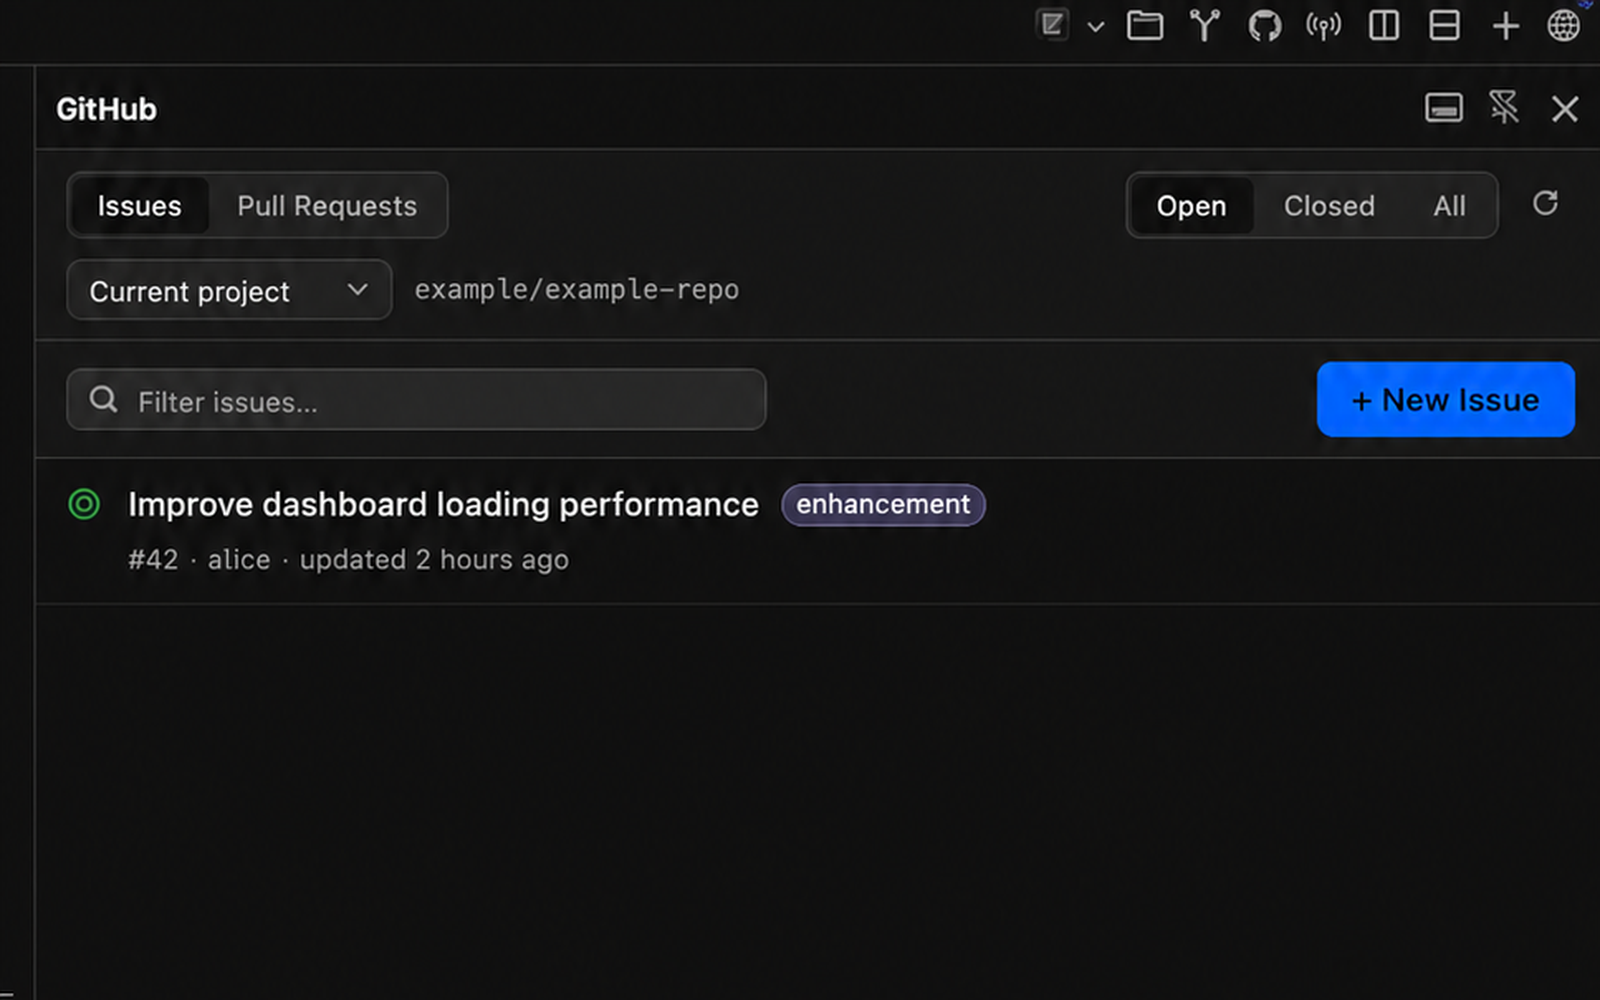
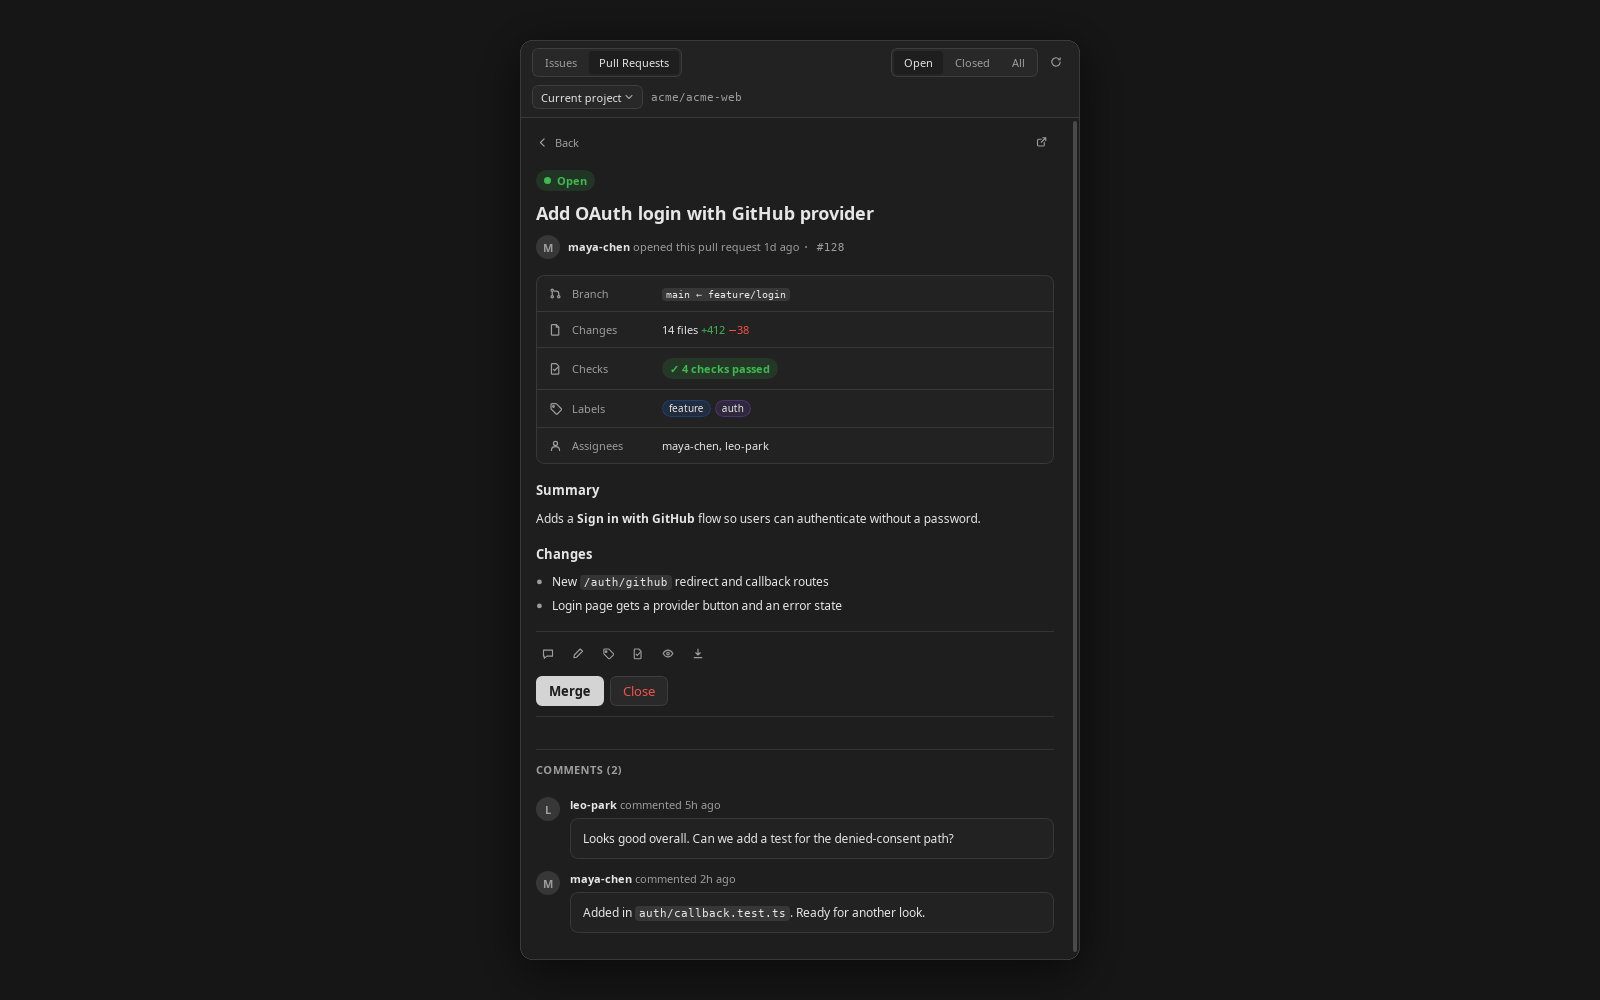
github 0.1.3 (#13)
* harness: github listing case

* harness: drive github case from fixture

* harness: shorter PR body so comments show

* github: credits, version bump, harness tweaks

* github: replace listing screenshots with neutral renders

---------

diff --git a/tools/harness/fixtures/github.js b/tools/harness/fixtures/github.js
@@ -1,0 +1,58 @@
+// Sample GitHub data for the github extension: gh CLI output served through atur.exec.
+(() => {
+  const h = window.__harness;
+  const ago = (hours) => new Date(Date.now() - hours * 3600 * 1000).toISOString();
+  const REPO = "acme/acme-web";
+
+  const prs = [
+    {
+      number: 128, title: "Add OAuth login with GitHub provider", state: "OPEN", isDraft: false,
+      author: { login: "maya-chen" }, labels: [{ name: "feature", color: "1f6feb" }, { name: "auth", color: "8957e5" }],
+      assignees: [{ login: "maya-chen" }, { login: "leo-park" }],
+      createdAt: ago(30), updatedAt: ago(2), url: "https://github.com/acme/acme-web/pull/128",
+      additions: 412, deletions: 38, changedFiles: 14, headRefName: "feature/login", baseRefName: "main",
+      mergeable: "MERGEABLE",
+      body: "## Summary\n\nAdds a **Sign in with GitHub** flow so users can authenticate without a password.\n\n## Changes\n\n- New `/auth/github` redirect and callback routes\n- Login page gets a provider button and an error state",
+      comments: [
+        { author: { login: "leo-park" }, createdAt: ago(5), body: "Looks good overall. Can we add a test for the denied-consent path?" },
+        { author: { login: "maya-chen" }, createdAt: ago(2), body: "Added in `auth/callback.test.ts`. Ready for another look." },
+      ],
+      reviews: [{ author: { login: "leo-park" }, state: "COMMENTED" }],
+      statusCheckRollup: [
+        { name: "build", conclusion: "SUCCESS" }, { name: "lint", conclusion: "SUCCESS" },
+        { name: "test", conclusion: "SUCCESS" }, { name: "e2e", conclusion: "SUCCESS" },
+      ],
+    },
+    { number: 127, title: "Fix flaky checkout test on slow CI runners", state: "OPEN", isDraft: false, author: { login: "leo-park" }, updatedAt: ago(4), url: "https://github.com/acme/acme-web/pull/127" },
+    { number: 125, title: "Upgrade to Node 22 and refresh lockfile", state: "OPEN", isDraft: false, author: { login: "sam-ortiz" }, updatedAt: ago(9), url: "https://github.com/acme/acme-web/pull/125" },
+    { number: 123, title: "Dashboard: lazy-load chart widgets", state: "OPEN", isDraft: true, author: { login: "maya-chen" }, updatedAt: ago(26), url: "https://github.com/acme/acme-web/pull/123" },
+    { number: 121, title: "Docs: document environment variables", state: "OPEN", isDraft: false, author: { login: "priya-nair" }, updatedAt: ago(50), url: "https://github.com/acme/acme-web/pull/121" },
+    { number: 118, title: "Replace moment.js with date-fns", state: "OPEN", isDraft: false, author: { login: "sam-ortiz" }, updatedAt: ago(96), url: "https://github.com/acme/acme-web/pull/118" },
+    { number: 115, title: "Add dark mode toggle to settings", state: "OPEN", isDraft: false, author: { login: "priya-nair" }, updatedAt: ago(170), url: "https://github.com/acme/acme-web/pull/115" },
+  ];
+
+  h.set("projects.list", async () => [{ id: "p1", name: "acme-web", path: "/home/dev/acme-web", isActive: true }]);
+  h.set("gh.user", async () => ({ login: "maya-chen" }));
+  h.set("git.pr.list", async () => prs.map((p) => ({ ...p, author: p.author.login })));
+  h.set("exec", async (argv) => {
+    const ok = (stdout) => ({ stdout, stderr: "", exitCode: 0 });
+    if (argv[1] === "repo") return ok(REPO + "\n");
+    if (argv[1] === "pr" && argv[2] === "view") return ok(JSON.stringify(prs.find((p) => String(p.number) === argv[3])));
+    if (argv[1] === "pr" && argv[2] === "list") return ok(JSON.stringify(prs));
+    if (argv[1] === "issue") return ok("[]");
+    return ok("");
+  });
+
+  const sleep = (ms) => new Promise((resolve) => setTimeout(resolve, ms));
+  const until = async (test) => { for (let i = 0; i < 100 && !test(); i += 1) await sleep(100); };
+  window.addEventListener("load", async () => {
+    await until(() => document.querySelector("#search"));
+    document.querySelector("[data-mode=prs]").click();
+    await until(() => document.querySelector("#search")?.placeholder.includes("pull"));
+    await until(() => document.querySelector(".issue"));
+    document.querySelector('.issue[data-num="128"]').click();
+    await until(() => document.querySelector(".detail__title"));
+    await sleep(500);
+    window.__ready = true;
+  });
+})();

diff --git a/extensions/github/README.md b/extensions/github/README.md
@@ -37,3 +37,7 @@ npm run build
 ```
 
 Then click **Reload** in the Atur Terminal Extensions modal.
+
+## Credits
+
+Originally published in muxy-app/extensions (MIT) by ryohei. Maintained by Atur Terminal.
